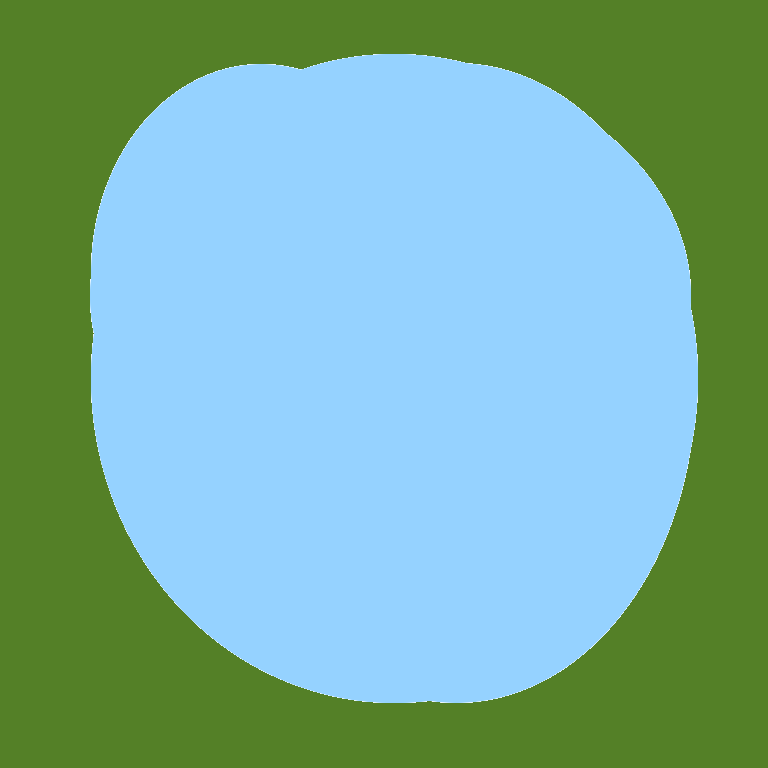
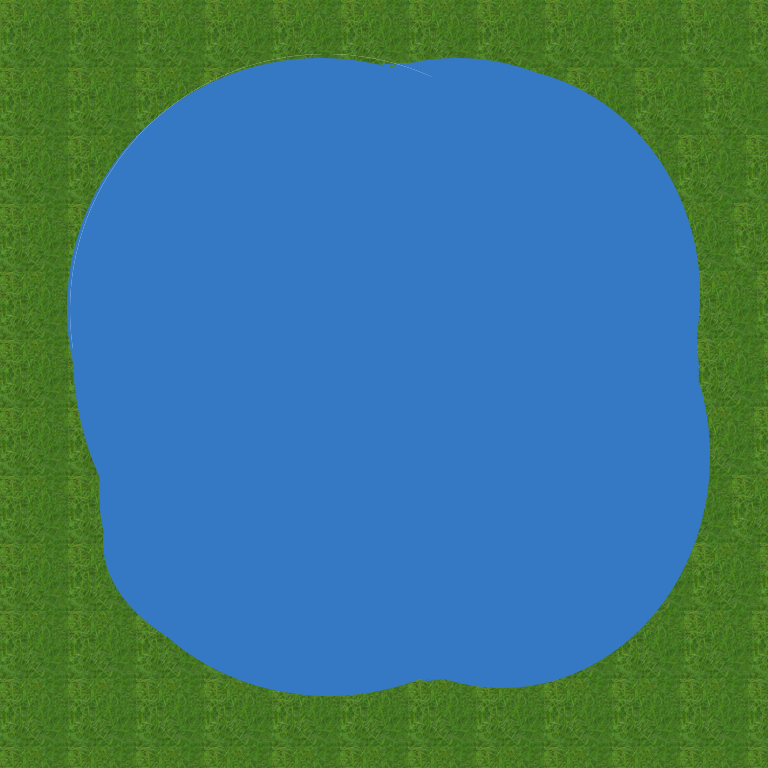
New background and optimizations

diff --git a/hungryHippos.py b/hungryHippos.py
@@ -274,12 +274,15 @@ def main():
 			  	elif event.key == pygame.K_RETURN:
 				   	if menu.get_position() == 1:
 				   		apocalypse = True
+				   		print "Infinite"
 				   	elif menu.get_position() == 2:
 				   		multiplayer = True
+				   		print "Multiplayer"
 				   	elif menu.get_position() == 3:
 				   		singleplayer = True
 				   		player_menu = False
 				   		players = 4
+				   		print "Singleplayer"
 				   	if menu.get_position() != 0:
  				   		game_menu = False
 
@@ -315,6 +318,7 @@ def main():
 				   	elif menu.get_position() == 3:
 				   		main()
 				   	player_menu = False
+	print str(players) + " Players"
 
 	# Reset Screen to start game
 	setScreen(screen, background)
@@ -389,7 +393,6 @@ def main():
 		if apocalypse:
 			if  stage > 1 and counter%90 == 0:
 				stage -= 1
-				print stage
 			if counter%stage == 0:
 				ballList.append(createBall(scoreList, playerList))
 				ballSprite = pygame.sprite.RenderClear(ballList)
